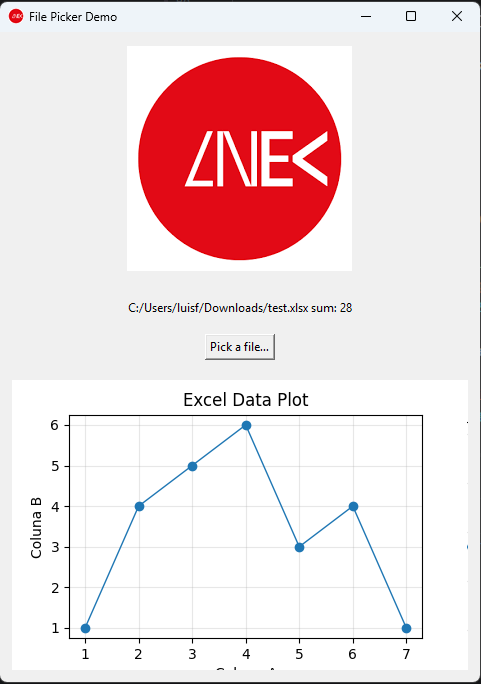
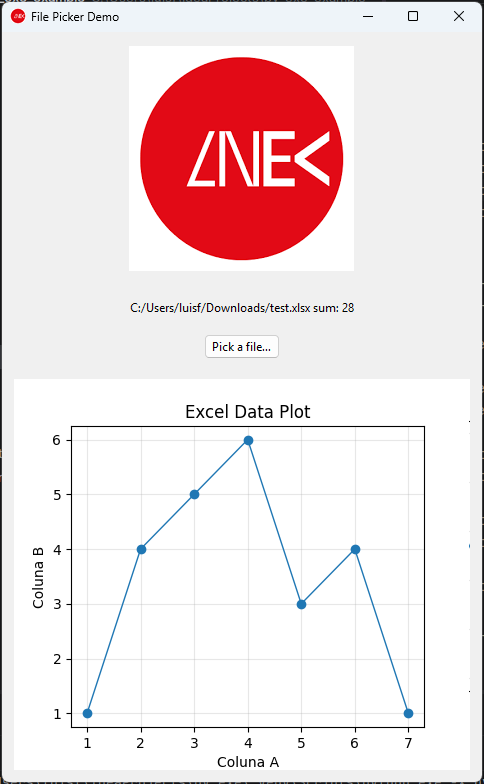
add windows look and feel support

diff --git a/main.py b/main.py
@@ -1,3 +1,4 @@
+import tkinter.ttk as ttk
 import tkinter as tk
 from tkinter import filedialog
 import pandas as pd
@@ -54,11 +55,11 @@ def pick_file():
 
 root = tk.Tk()
 root.title("File Picker Demo")
-root.geometry("480x650")
+root.geometry("480x750")
 root.iconbitmap("res/lnec.ico")
 
 img = tk.PhotoImage(file="res/logo.png")
-img_label = tk.Label(root, image=img)
+img_label = ttk.Label(root, image=img)
 img_label.pack(padx=12, pady=12)
 
 selected_path_var = tk.StringVar(value="No file selected")
@@ -66,7 +67,7 @@ selected_path_var = tk.StringVar(value="No file selected")
 label = tk.Label(root, textvariable=selected_path_var, wraplength=480, justify="left")
 label.pack(padx=12, pady=(12, 8), fill="x")
 
-button = tk.Button(root, text="Pick a file…", command=pick_file)
+button = ttk.Button(root, text="Pick a file…", command=pick_file)
 button.pack(padx=12, pady=8)
 
 plot_frame = tk.Frame(root)
